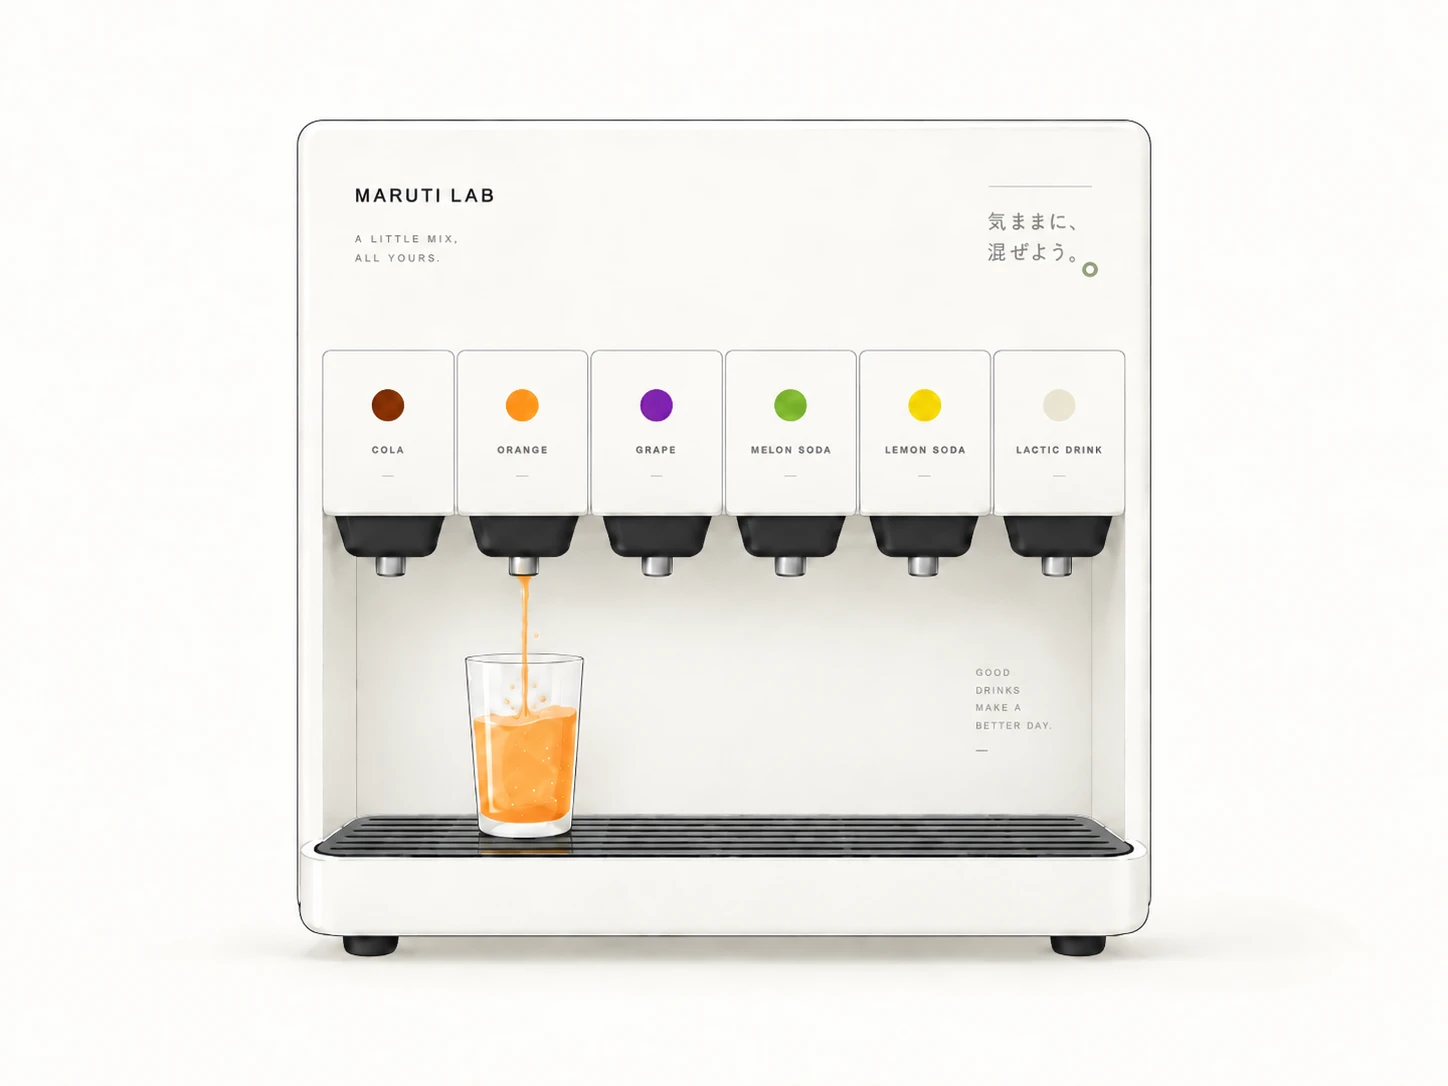
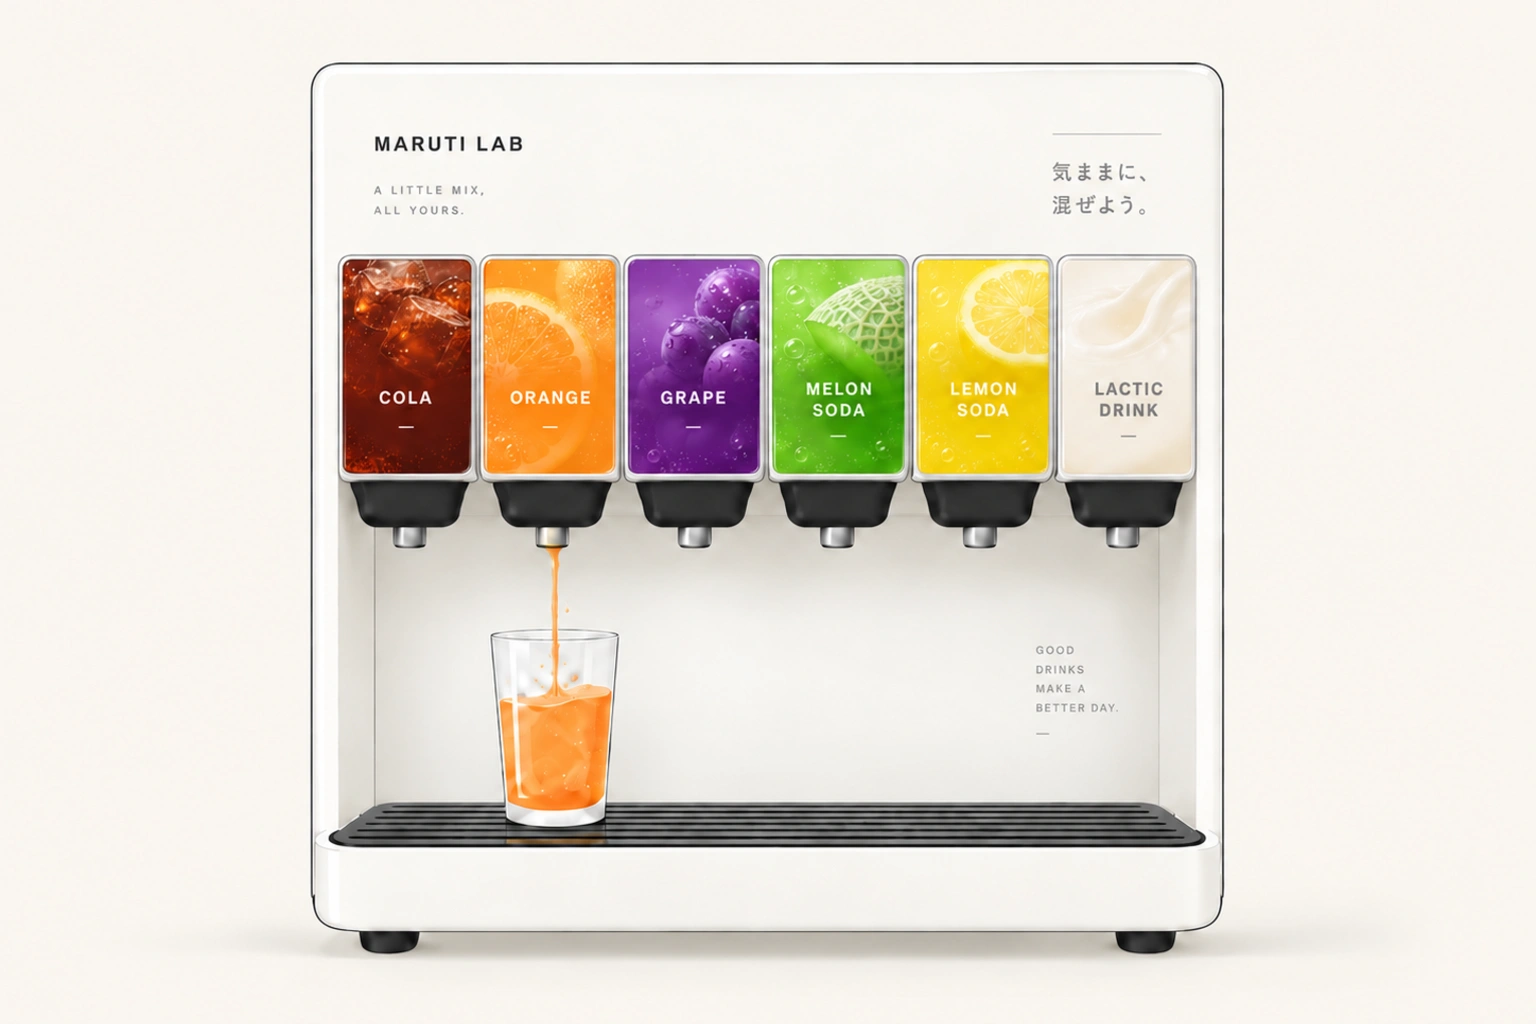
Repaint the machine, and give the glass a shape worth filling
The artwork is the second cut, with its shadow no longer clipped, and the
ground moves with it: #fdfdfa was the old drawing's milk, #faf6f1 is the
cream this one is painted on, measured off the clean edges of the picture
rather than picked. Band, card and page all move together, and the rule
between the machine and the glass gets a little more air either side of it
now that the picture is trimmed differently.

The glass is drawn on the tumbler in that picture: sides drawing in to a
rounded heel, a thick foot, and a rim that is an ellipse. Its top edge
follows the near side of that ellipse instead of running straight across
the box, which is what left two square shoulders standing outside the oval.
Its size is now as large as the tilt allows at each width - drinking turns
it 28 degrees about a point four fifths down, which swings the far corner
out by half again and used to put it through the rule into the flavours.

Carbonation is bubbles now rather than two tiled dot patterns scrolling
upward, which was fizz at a distance and wallpaper up close. Each one has
its own size, speed and start, swells a little as it climbs, and stops at
the surface - the depth of the drink, measured, not a guess. The ice lets
the colour through instead of floating on top as white lumps.

And a tray of ice cannot be ordered twice any more: two taps in one frame
both read the same stale count and filled the glass with twelve cubes, six
of them positioned nowhere in particular.

Changed region(s): [[0.1554, 0.0938, 0.8702, 0.9375], [0.6837, 0.625, 0.7148, 0.7188]]

diff --git a/app/bit/mixPop.css b/app/bit/mixPop.css
@@ -7,8 +7,8 @@
    on, so the picture does not float as a pale rectangle over the page's grid
    and the quiet design underneath it has something to be quiet against. */
 /* And it is a card, like every other piece of the shop: 2.5px of black, a 9px
-   corner and a hard shadow with no blur. The fill stays the milk the machine
-   is painted on rather than the warmer cream the how-to cards use - the
+   corner and a hard shadow with no blur. The fill stays the cream the machine
+   is painted on rather than the one the how-to cards use - the
    artwork carries that colour baked into its own pixels, so any other fill
    would draw a pale rectangle around the machine. The page's grid stopping at
    the border is what makes it read as a card. */
@@ -18,7 +18,7 @@
   padding: clamp(18px, 2.4vw, 28px) 0 clamp(22px, 2.8vw, 32px);
   border: 2.5px solid #232323;
   border-radius: 9px;
-  background: #fdfdfa;
+  background: #faf6f1;
   box-shadow: 5px 5px 0 #232323;
 }
 
@@ -29,6 +29,7 @@
   --mp-edge: #cdd3c6;
   --mp-quiet: #686f60;
   --mp-ctl: 44px;
+  --mp-glass: clamp(132px, 15.5vw, 176px);
   position: relative;
   max-width: 1180px;
   margin: 0 auto;
@@ -43,8 +44,8 @@
   gap: 0 clamp(24px, 4vw, 48px);
   border-top: 1px solid var(--mp-line);
 }
-.mpPreview { padding: 24px 0 8px; border-right: 1px solid var(--mp-line); padding-right: clamp(24px, 4vw, 48px); }
-.mpControls { padding: 24px 0 8px; }
+.mpPreview { padding: 34px 0 8px; border-right: 1px solid var(--mp-line); padding-right: clamp(24px, 4vw, 48px); }
+.mpControls { padding: 34px 0 8px; }
 /* Every small caps label on the toy is set in the series' display face, the
    same one the how-to pills and the band wear. Baloo 2 only ships 700 and 800
    here, so these are 700 - at 9px that reads as a printed label rather than
@@ -59,24 +60,68 @@
 
 /* ---- the glass ------------------------------------------------------ */
 
-.mpScene { position: relative; height: 308px; display: flex; align-items: center; justify-content: center; }
+.mpScene { position: relative; height: 336px; display: flex; align-items: center; justify-content: center; }
+/* The tumbler the machine is pouring into, at the size the artwork draws it
+   now that the machine fills its frame. Its silhouette is not the box: the
+   box is only what clips the drink. What you see is the rim ellipse, the two
+   walls and the foot, which is how a glass is actually read - an outline all
+   the way round made it a drawn shape rather than something transparent. */
 .mpGlass {
   position: relative;
   z-index: 1;
-  width: 151px;
-  height: 215px;
-  border: 1px solid #aeb4a7;
-  border-top: 2px solid #969f8d;
-  border-radius: 4px 4px 25px 25px;
-  overflow: hidden;
-  background: linear-gradient(95deg, #ffffff60, transparent 40%, #d9ddd22b);
-  box-shadow: 0 14px 15px -16px #303b31;
+  /* Drinking rotates the glass 28 degrees about a point four fifths of the
+     way down, which throws its far corner out to the right by half again -
+     enough, at full size, to cross the rule into the flavour list on a
+     narrowed window. So the glass is as large as that corner allows at each
+     width rather than one size that only works when the window is wide. */
+  width: var(--mp-glass);
+  aspect-ratio: 11 / 16;
+  /* Straight sides drawing in towards the base, then a rounded heel. polygon()
+     cannot round a corner, so the heel is four short chords; at this size they
+     read as an arc. The taper also trims the wall gradients below, which is
+     what makes the sides look like they lean. */
+  /* The top edge is the near side of the rim ellipse, not a straight line
+     across the box - a flat top left two square shoulders standing outside
+     the oval, which is the one place a drawn glass gives itself away. */
+  clip-path: polygon(
+    0% 2.73%, 5% 1.54%, 12.5% 0.93%, 25% 0.37%, 50% 0%, 75% 0.37%, 87.5% 0.93%, 95% 1.54%, 100% 2.73%,
+    90.5% 91%, 89.6% 95%, 87.2% 98%, 83.8% 99.6%, 80% 100%,
+    20% 100%, 16.2% 99.6%, 12.8% 98%, 10.4% 95%, 9.5% 91%
+  );
+  background:
+    /* the left wall, then the right: thick glass holding a band of light,
+       fading to nothing a third of the way in */
+    linear-gradient(90deg, #a9b1a8 0, #c8cfc5 2px, #fcfdfb 6px, #edf0e999 12px, transparent 19px),
+    linear-gradient(270deg, #a9b1a8 0, #c8cfc5 2px, #fcfdfb 6px, #edf0e999 12px, transparent 19px),
+    /* the sheen across the body, and the foot: solid glass the drink sits on */
+    linear-gradient(101deg, #ffffff55 0, transparent 38%, #d9ddd224 100%),
+    linear-gradient(0deg, #dde2d8b3 0, #eff2ec66 14px, transparent 26px);
+  background-clip: padding-box;
+  box-shadow:
+    inset 0 -1px 0 #cdd3c6,
+    0 18px 16px -19px #303b31;
+}
+/* The rim: the only part of a tumbler with a hard edge, and the part that
+   tells you which way it is turned. An ellipse rather than a line, because
+   from here you are looking slightly down into it. */
+.mpGlass::before {
+  content: "";
+  position: absolute;
+  z-index: 3;
+  left: 0;
+  right: 0;
+  top: 0;
+  height: 5.47%;
+  border: 1.5px solid #a9b1a8;
+  border-radius: 50%;
+  background: linear-gradient(180deg, #ffffffb0, #e9ede44d);
+  pointer-events: none;
 }
 /* The wall of the glass, as a box the drink is poured into rather than a
    margin the drink politely keeps. Upright it makes no difference; tilted it
    is the whole difference, because the drink has to run wide to keep its
    surface level and something has to stop it at the glass. */
-.mpInner { position: absolute; inset: 0 5px 10px; overflow: hidden; border-radius: 0 0 16px 16px; }
+.mpInner { position: absolute; inset: 7px 7px 19px; overflow: hidden; border-radius: 0 0 18px 18px; }
 /* Something you can see through: thin where there is little of it, deep at the
    bottom. The cubes live in here, so this cannot be done with opacity - that
    would fade the ice too. */
@@ -90,13 +135,31 @@
   background: linear-gradient(180deg, var(--thin) 0, var(--mid) 38%, var(--deep) 100%);
   transition: height 0.35s, background 0.5s;
 }
-.mpSurface { position: absolute; left: 0; top: -4px; right: 0; height: 8px; border-radius: 50%; background: #ffffff35; }
-.mpBubbles {
-  height: 100%;
-  background-image: radial-gradient(circle, #fff 1px, transparent 2px), radial-gradient(circle, #fff 1px, transparent 2px);
-  background-size: 29px 43px, 43px 61px;
-  background-position: 5px 8px, 17px 29px;
-  animation: mpRise 2s linear infinite;
+.mpSurface { position: absolute; z-index: 1; left: 0; top: -4px; right: 0; height: 8px; border-radius: 50%; background: #ffffff5c; box-shadow: 0 1px 0 #ffffff3d; }
+/* Carbonation. It used to be two tiled dot patterns scrolling upward, which
+   from a distance is fizz and up close is wallpaper: every bubble the same
+   size, the same speed, in rows. These are separate bubbles that start at the
+   bottom, get a little bigger as the pressure drops, and vanish at the
+   surface - which is what --mp-rise is, the depth of the drink in pixels. */
+.mpBubbles { position: absolute; inset: 0; overflow: hidden; }
+.mpBubbles i {
+  position: absolute;
+  bottom: 0;
+  border-radius: 50%;
+  /* Lit from above and behind, so the highlight sits high and the far wall
+     of the bubble catches the light too. A flat white disc reads as a dot. */
+  background:
+    radial-gradient(circle at 34% 28%, #ffffffe0 0 22%, #ffffff5e 45%, #ffffff17 70%, transparent 74%),
+    radial-gradient(circle at 62% 76%, #ffffff8a 0 16%, transparent 40%);
+  animation-name: mpFizz;
+  animation-timing-function: cubic-bezier(0.45, 0, 0.75, 0.4);
+  animation-iteration-count: infinite;
+}
+@keyframes mpFizz {
+  0% { transform: translateY(0) scale(0.55); opacity: 0; }
+  9% { opacity: 0.9; }
+  82% { opacity: 0.8; }
+  100% { transform: translateY(calc(var(--mp-rise, 60px) * -1)) scale(1.12); opacity: 0; }
 }
 .mpHighlight { position: absolute; top: 12px; left: 12px; bottom: 18px; width: 5px; border-radius: 5px; background: #ffffff65; }
 .mpNote { position: absolute; left: 0; top: 53px; font: 700 10.5px/2 "Baloo 2", "Yu Gothic UI", sans-serif; letter-spacing: 1.6px; color: #b9bfb1; }
@@ -112,12 +175,17 @@
   position: absolute;
   left: calc(50% + var(--x));
   top: calc(var(--float, -8px) + var(--y, 0px));
-  width: 34px;
-  height: 29px;
-  margin-left: -17px;
-  border-radius: 8px;
-  background: linear-gradient(145deg, #ffffffd9, #ffffff59);
-  box-shadow: inset 0 1px 0 #fff9, 0 1px 3px #6b705f2e;
+  width: 36px;
+  height: 31px;
+  margin-left: -18px;
+  border-radius: 9px;
+  /* Ice in a drink is not white. It is the drink again, paler, with a lit
+     edge where the light turns the corner - so this is mostly transparent
+     and the colour underneath comes through it. Solid white lumps riding the
+     surface were the thing that made the glass look printed rather than
+     full. */
+  background: linear-gradient(145deg, #ffffff82, #ffffff1f 58%, #ffffff4d);
+  box-shadow: inset 0 1px 0 #ffffffb3, inset 0 -1px 0 #ffffff4d, 0 1px 3px #6b705f1f;
   transform: rotate(var(--turn));
 }
 
@@ -150,7 +218,6 @@
 .mpGlass { transition: transform 0.45s cubic-bezier(0.2, 0.6, 0.3, 1); transform-origin: 50% 80%; }
 
 @keyframes mpRipple { from { transform: scaleX(0.94) rotate(-2deg); } to { transform: scaleX(1.06) rotate(2deg); } }
-@keyframes mpRise { to { background-position: 5px -78px, 17px -93px; } }
 
 /* ---- the flavours --------------------------------------------------- */
 
@@ -244,8 +311,9 @@
   .mpGrid { grid-template-columns: 1fr; }
   .mpPreview { border-right: 0; border-bottom: 1px solid var(--mp-line); padding: 14px 0 18px; }
   .mpControls { padding: 18px 0 8px; }
-  .mpScene { height: 206px; }
-  .mpGlass { width: 116px; height: 162px; }
+  .mpScene { height: 232px; }
+  .mpStage { --mp-glass: 132px; }
+  .mpInner { inset: 5px 5px 14px; }
   .mpNote { top: 44px; }
   .mpMeasure { top: 34px; right: 22px; }
   .mpFlavour { min-height: 58px; }
@@ -255,7 +323,7 @@
 
 @media (prefers-reduced-motion: reduce) {
   .mpGlass, .mpLiquid { transition: none; }
-  .mpBubbles, .mpSurface { animation: none; }
+  .mpBubbles i, .mpSurface { animation: none; }
   .isDrinking .mpGlass { transform: none; }
   .isDrinking .mpLiquid { transform: none; left: 0; right: 0; }
   .isDrinking .mpLiquid::after { display: none; }
@@ -287,7 +355,7 @@
   letter-spacing: 0.01em;
   color: #4e5747;
 }
-.mpMachine { position: relative; max-width: 560px; margin: 0 auto 10px; }
+.mpMachine { position: relative; max-width: 560px; margin: 0 auto 26px; }
 .mpMachine img { display: block; width: 100%; height: auto; }
 
 @media (max-width: 700px) {
@@ -320,6 +388,10 @@
    above it. No margin over them - the row closes the card off, and any air
    there just left the buttons floating under the thing they belong to. */
 .mpShareRow { display: grid; grid-template-columns: 1fr 1fr; gap: 10px; margin: 0; }
+/* Except behind the result. With nothing there the row closes the card off,
+   but flush against the panel that has just named your drink it reads as part
+   of it, and it is not - it belongs to the card underneath both. */
+.mpResult + .mpShareRow { margin-top: 18px; }
 .mpShareBtn {
   padding: 12px 10px;
   border: 1px solid var(--mp-edge);

diff --git a/app/bit/MixPopGame.tsx b/app/bit/MixPopGame.tsx
@@ -16,7 +16,21 @@ const ICE_MAX = 6;
 const ICE_AT = [-34, 4, -12, 30, -24, 16];
 const ICE_UP = [0, 2, -3, 1, -4, -1];
 const ICE_TURN = [-11, 8, -3, 15, 6, -14];
-const CUBE = 29;
+// Has to be the drawn height of a cube in mixPop.css: the float maths puts
+// the cubes exactly this far up before the drink pushes them back down.
+const CUBE = 31;
+// Carbonation, written down once. Random numbers in render would give the
+// server one set of bubbles and the browser another, and React would throw
+// the whole glass away rebuilding it. Each bubble is: how far across, how
+// wide, how long it takes to reach the surface, and how late it starts - the
+// small ones are quick and the big ones are slow, the way they actually are.
+const FIZZ = [
+  [8, 2.4, 3.1, 0.0], [17, 3.6, 4.2, 1.7], [24, 1.9, 2.6, 0.5], [31, 4.4, 5.0, 2.9],
+  [38, 2.1, 2.8, 1.2], [44, 3.1, 3.8, 3.4], [51, 5.0, 5.6, 0.8], [57, 2.6, 3.3, 2.2],
+  [63, 1.8, 2.4, 4.1], [69, 3.9, 4.6, 1.0], [75, 2.3, 3.0, 3.0], [81, 4.6, 5.2, 0.3],
+  [87, 2.0, 2.7, 2.6], [92, 3.4, 4.0, 4.5], [12, 4.1, 4.8, 3.8], [28, 1.7, 2.3, 1.5],
+  [48, 2.8, 3.5, 4.8], [66, 4.8, 5.4, 2.0], [84, 2.2, 2.9, 0.6], [35, 3.3, 3.9, 5.2],
+] as const;
 
 const mix = (amounts: number[], pick: (i: number) => [number, number, number], fallback: number) => {
   const total = amounts.reduce((a, b) => a + b, 0);
@@ -52,6 +66,10 @@ export function MixPopGame() {
   const [message, setMessage] = useState("");
   const [sound, setSound] = useState(true);
   const [floatPx, setFloatPx] = useState(-CUBE);
+  // How far a bubble has to climb before it breaks: the depth of the drink,
+  // in pixels, so the animation stops at the surface instead of at a number
+  // somebody guessed.
+  const [risePx, setRisePx] = useState(0);
 
   const audio = useRef<MixPopAudio | null>(null);
   const hold = useRef<{ delay?: number; repeat?: number }>({});
@@ -60,6 +78,7 @@ export function MixPopGame() {
   const soundOff = useRef<number | undefined>(undefined);
   const serial = useRef(0);
   const pouringRef = useRef(-1);
+  const iced = useRef(0);
   const innerRef = useRef<HTMLDivElement>(null);
 
   const total = amounts.reduce((a, b) => a + b, 0);
@@ -138,6 +157,7 @@ export function MixPopGame() {
     const box = innerRef.current?.getBoundingClientRect().height ?? 0;
     const depth = box * (total / CAP) * 0.85;
     setFloatPx(-(CUBE - Math.min(21, depth * 0.9)));
+    setRisePx(depth);
   }, [total]);
 
   useEffect(() => () => {
@@ -207,20 +227,26 @@ export function MixPopGame() {
     [drinking, pour],
   );
 
+  // The guard is a ref, not the state. Two taps inside one frame both read
+  // the same stale `ice`, both schedule a full tray, and the glass ends up
+  // with twelve cubes - six of them drawn with no position at all, which
+  // parks them in a heap outside the glass. The button disables itself on the
+  // next render, which is a frame too late for a fast double tap.
   const addIce = useCallback(() => {
-    if (ice >= ICE_MAX || drinking) return;
+    if (iced.current >= ICE_MAX || drinking) return;
     void ear().unlock();
-    const from = ice;
+    const from = iced.current;
+    iced.current = ICE_MAX;
     setIce(ICE_MAX);
     for (let k = from; k < ICE_MAX; k++) {
       timers.current.push(
         window.setTimeout(() => {
-          setCubes((n) => n + 1);
+          setCubes((n) => Math.min(ICE_MAX, n + 1));
           void ear().play("ice");
         }, (k - from) * 135),
       );
     }
-  }, [drinking, ice]);
+  }, [drinking]);
 
   const drink = useCallback(() => {
     if (drinking || !total) return;
@@ -248,6 +274,7 @@ export function MixPopGame() {
         () => {
           setDrinking(false);
           setSip("");
+          iced.current = 0;
           setIce(0);
           setCubes(0);
           setNamed(null);
@@ -267,6 +294,7 @@ export function MixPopGame() {
     setDrinking(false);
     setSip("");
     setAmounts(DRINKS.map(() => 0));
+    iced.current = 0;
     setIce(0);
     setCubes(0);
     setNamed(null);
@@ -358,7 +386,7 @@ export function MixPopGame() {
       <p className="mpCatch">ジュースを、好きなだけ。</p>
       <figure className="mpMachine">
         {/* eslint-disable-next-line @next/next/no-img-element */}
-        <img src="/bit/mixpop/machine.webp" alt="六つの注ぎ口が並んだドリンクバーの機械" width={1448} height={1086} />
+        <img src="/bit/mixpop/machine.webp" alt="六つの注ぎ口が並んだドリンクバーの機械" width={1536} height={1024} />
       </figure>
       <div className="mpGrid">
         <div className="mpPreview">
@@ -380,7 +408,22 @@ export function MixPopGame() {
                   }}
                 >
                   <div className="mpSurface" />
-                  <div className="mpBubbles" style={{ opacity: fizz * 0.6 }} />
+                  {/* Only as many bubbles as the mix has fizz in it: lactic
+                      drink is flat, melon soda is not. */}
+                  <div className="mpBubbles" style={{ opacity: 0.35 + fizz * 0.65, ["--mp-rise" as string]: `${risePx.toFixed(1)}px` }} aria-hidden="true">
+                    {FIZZ.slice(0, Math.round(FIZZ.length * Math.min(1, 0.25 + fizz))).map(([x, size, seconds, late], k) => (
+                      <i
+                        key={k}
+                        style={{
+                          left: `${x}%`,
+                          width: `${size}px`,
+                          height: `${size}px`,
+                          animationDuration: `${seconds}s`,
+                          animationDelay: `${late}s`,
+                        }}
+                      />
+                    ))}
+                  </div>
                   <div className="mpIce" style={{ ["--float" as string]: `${floatPx.toFixed(1)}px` }} aria-hidden="true">
                     {Array.from({ length: cubes }, (_, k) => (
                       <i

diff --git a/app/globals.css b/app/globals.css
@@ -646,8 +646,8 @@ footer{padding-top:34px;padding-bottom:34px}
 /* MIX POP's own ground: the cream its machine is painted on. Same idea as
    .bitPageDark - only the paint changes, never the layout - so the toy sits
    on its own colour from the band down instead of on the shop's grid. */
-.bitPageMilk{--bit-paper:#fdfdfa;--pkg-tint:rgba(35,35,35,.035)}
-.bitPageMilk .bitIntro{background:#fdfdfa}
+.bitPageMilk{--bit-paper:#faf6f1;--pkg-tint:rgba(35,35,35,.035)}
+.bitPageMilk .bitIntro{background:#faf6f1}
 .bitPageMilk .bitHowToPlayCard,.bitPageMilk .bitNotesCard{background:#f7f5ec}
 
 /* On a phone the names were all over the place: SEQUENCE took 12.2vw and
